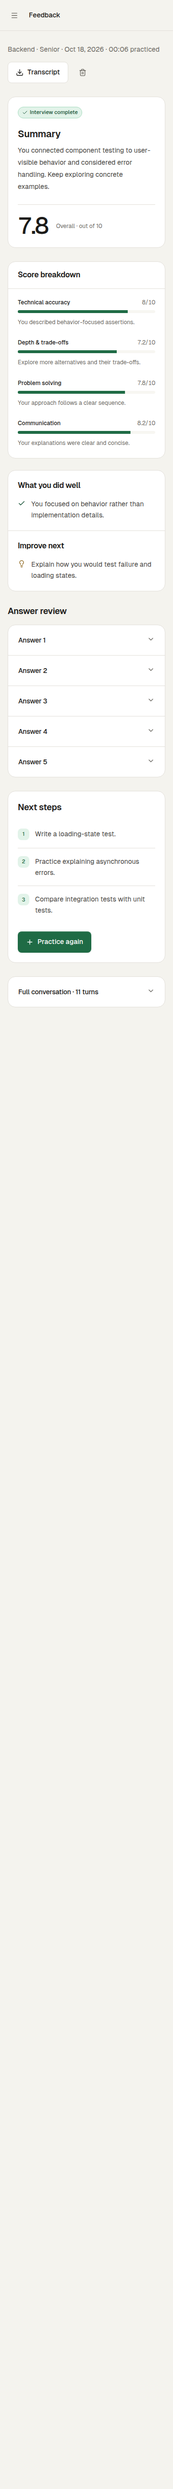
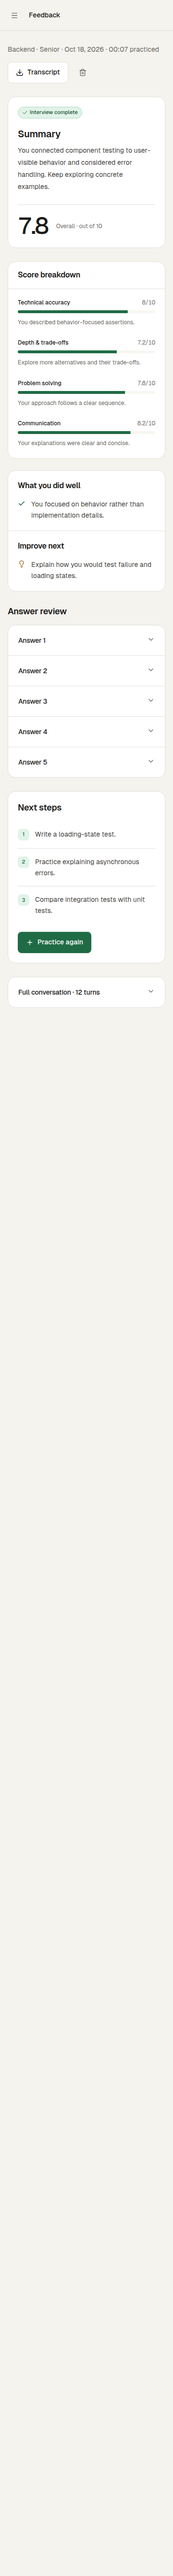
Remove redundant workspace and interview UI labels

Changed region(s): [[0.0611, 0.0, 0.825, 0.4062], [0.7944, 0.0938, 0.8861, 0.1562], [0.8556, 0.2812, 0.8861, 0.3125]]

diff --git a/e2e/interview.spec.ts b/e2e/interview.spec.ts
@@ -40,6 +40,16 @@ async function trackSpeakerPlayback(page: Page) {
       formaPcmStarts: number;
       formaPcmEnergy: number;
     };
+    const NativeSocket = window.WebSocket;
+    window.WebSocket = class extends NativeSocket {
+      constructor(url: string | URL, protocols?: string | string[]) {
+        super(url, protocols);
+        if (String(url).includes("/interviews/"))
+          (
+            window as Window & { formaInterviewSocket?: WebSocket }
+          ).formaInterviewSocket = this;
+      }
+    };
     target.formaPcmStarts = 0;
     target.formaPcmEnergy = 0;
     const create = AudioContext.prototype.createBufferSource;
@@ -54,6 +64,18 @@ async function trackSpeakerPlayback(page: Page) {
       };
       return source;
     };
+  });
+}
+// Replay remains a protocol recovery path; it is no longer a visible UI action.
+async function replayQuestion(page: Page) {
+  await page.evaluate(() => {
+    const target = window as Window & {
+      formaInterviewSocket?: WebSocket;
+      captionSocket?: WebSocket;
+    };
+    (target.formaInterviewSocket ?? target.captionSocket)!.send(
+      JSON.stringify({ type: "speak" }),
+    );
   });
 }
 async function playbackCount(page: Page) {
@@ -173,9 +195,7 @@ test("complete practice journey, recovery, history, and desktop reflow", async (
     page.locator('[data-slot="live-caption"] [data-slot="streaming-text"]'),
   ).toContainText("You mentioned testing behavior");
   const firstPlayback = await playbackCount(page);
-  await page
-    .getByRole("button", { name: "Hear question", exact: true })
-    .click();
+  await replayQuestion(page);
   await expect.poll(() => playbackCount(page)).toBeGreaterThan(firstPlayback);
   await expect(
     page.getByText("Listening to you", { exact: true }),
@@ -394,9 +414,7 @@ test("full question stays readable while speaking highlights follow playback sta
     await expect(
       page.getByText("Listening to you", { exact: true }),
     ).toBeVisible();
-    await page
-      .getByRole("button", { name: "Hear question", exact: true })
-      .click();
+    await replayQuestion(page);
     await expect(caption).toHaveText(fullQuestion);
     await expect(caption).toHaveAttribute("data-speaking", "true");
     await page.getByRole("button", { name: "Interrupt", exact: true }).click();
@@ -405,9 +423,7 @@ test("full question stays readable while speaking highlights follow playback sta
     const ended = await page.evaluate(
       () => (window as Window & { captionAudioEnds: number }).captionAudioEnds,
     );
-    await page
-      .getByRole("button", { name: "Hear question", exact: true })
-      .click();
+    await replayQuestion(page);
     await expect
       .poll(() =>
         page.evaluate(
@@ -493,20 +509,6 @@ test("voice capture, transcription, playback, mute, and cleanup", async ({
       (node) => node.getAnimations({ subtree: true }).length,
     ),
   ).toBeGreaterThan(0);
-  await page
-    .getByRole("button", { name: "Pause animation", exact: true })
-    .click();
-  expect(
-    await visual.evaluate(
-      (node) => node.getAnimations({ subtree: true }).length,
-    ),
-  ).toBe(0);
-  await expect(
-    page.getByText("Listening to you", { exact: true }),
-  ).toBeVisible();
-  await page
-    .getByRole("button", { name: "Resume animation", exact: true })
-    .click();
   await page.emulateMedia({ reducedMotion: "reduce" });
   await expect
     .poll(() =>

diff --git a/apps/web/components/voice-visual.tsx b/apps/web/components/voice-visual.tsx
@@ -1,9 +1,7 @@
 "use client";
-import { useState, type CSSProperties } from "react";
+import type { CSSProperties } from "react";
 import {
   AudioLines,
-  CirclePause,
-  CirclePlay,
   Loader2,
   Mic,
   MicOff,
@@ -11,7 +9,6 @@ import {
   Save,
 } from "lucide-react";
 import type { LiveStatus } from "@repo/shared";
-import { Button } from "@/components/ui/button";
 import { Progress } from "@/components/ui/progress";
 import styles from "./voice-visual.module.css";
 
@@ -28,7 +25,6 @@ export function VoiceVisual({
   level: number;
   error: boolean;
 }) {
-  const [paused, setPaused] = useState(false);
   const mode =
     status === "finishing"
       ? "finishing"
@@ -103,15 +99,11 @@ export function VoiceVisual({
       className="relative flex w-full max-w-md flex-col items-center text-center"
       data-slot="voice-experience"
     >
-      <div className="mb-3 flex items-center gap-2 text-xs font-medium text-muted-foreground">
-        <AudioLines className="size-3.5" aria-hidden="true" />
-        Screenly interviewer
-      </div>
       <div
         className={styles.visual}
         data-slot="voice-visual"
         data-state={mode}
-        data-animated={!paused && active}
+        data-animated={active}
         aria-hidden="true"
         style={{ "--voice-level": input } as CSSProperties}
       >
@@ -146,20 +138,6 @@ export function VoiceVisual({
             />
           </>
         )}
-        <Button
-          variant="ghost"
-          size="icon-sm"
-          className="absolute top-0 right-0 motion-reduce:hidden"
-          aria-label={paused ? "Resume animation" : "Pause animation"}
-          title={paused ? "Resume animation" : "Pause animation"}
-          onClick={() => setPaused(!paused)}
-        >
-          {paused ? (
-            <CirclePlay className="size-3.5" />
-          ) : (
-            <CirclePause className="size-3.5" />
-          )}
-        </Button>
       </div>
     </div>
   );

diff --git a/apps/web/app/interviews/[id]/page.tsx b/apps/web/app/interviews/[id]/page.tsx
@@ -8,7 +8,6 @@ import {
   Square,
   RefreshCw,
   VolumeX,
-  Volume2,
   FileText,
   Clock3,
   AudioLines,
@@ -99,9 +98,6 @@ export default function InterviewPage() {
   const started = ["listening", "thinking", "speaking", "finishing"].includes(
     state.status,
   );
-  const lastQuestion =
-    state.streaming ||
-    state.messages.filter((m) => m.role === "assistant").at(-1)?.content;
   const finishTrigger = (label: string, saved = false) => (
     <ConfirmAction
       title="Finish interview?"
@@ -362,22 +358,6 @@ export default function InterviewPage() {
                         </p>
                       )}
                     </div>
-                    <Button
-                      variant="ghost"
-                      size="sm"
-                      className="mt-1 text-xs"
-                      disabled={
-                        !lastQuestion ||
-                        !state.connected ||
-                        !capabilities.data?.voice ||
-                        state.status === "thinking" ||
-                        state.status === "finishing"
-                      }
-                      onClick={() => void controller.current?.speakLatest()}
-                    >
-                      <Volume2 className="size-3.5" />
-                      Hear question
-                    </Button>
                   </div>
                   <motion.div
                     initial={{ y: 10 }}
@@ -417,9 +397,6 @@ export default function InterviewPage() {
                     />
                     {finishTrigger("Finish interview")}
                   </motion.div>
-                  <p className="mt-3 mb-1 text-center text-[11px] text-muted-foreground">
-                    Your conversation is saved as you go.
-                  </p>
                 </div>
                 {transcriptOpen && (
                   <div

diff --git a/apps/web/components/workspace.tsx b/apps/web/components/workspace.tsx
@@ -11,8 +11,6 @@ import {
   LogOut,
   Loader2,
   Menu,
-  ChevronRight,
-  Layers2,
 } from "lucide-react";
 import { authClient } from "@/lib/auth-client";
 import { Button } from "@/components/ui/button";
@@ -61,16 +59,6 @@ function Sidebar({
         <Brand />
       </div>
       <div className="px-3 pt-6">
-        <div className="mb-6 flex items-center gap-2.5 px-3 text-[13px] font-medium text-ink-secondary">
-          <Layers2
-            className="size-4 text-muted-foreground"
-            aria-hidden="true"
-          />
-          Personal workspace
-        </div>
-        <p className="mb-2 px-3 text-[11px] font-medium text-muted-foreground">
-          WORKSPACE
-        </p>
         <nav className="space-y-1" aria-label="Main navigation">
           {navigation.map(({ href, label, icon: Icon }) => {
             const active = path === href;
@@ -232,17 +220,6 @@ export function Workspace({
                 onNavigate={() => setNavigationOpen(false)}
               />
             </Sheet>
-            <Layers2
-              className="hidden size-4 text-muted-foreground sm:block"
-              aria-hidden="true"
-            />
-            <span className="hidden text-muted-foreground sm:inline">
-              Workspace
-            </span>
-            <ChevronRight
-              className="hidden size-3.5 text-muted-foreground sm:block"
-              aria-hidden="true"
-            />
             <h1
               id="workspace-title"
               className="truncate text-sm leading-normal font-medium tracking-normal"

diff --git a/apps/web/app/interviews/new/page.tsx b/apps/web/app/interviews/new/page.tsx
@@ -281,9 +281,6 @@ export default function Setup() {
               Continue to setup check
               <ArrowRight aria-hidden="true" />
             </Button>
-            <p className="text-center text-[11px] text-muted-foreground">
-              Your interview clock hasn’t started yet.
-            </p>
           </div>
         </aside>
       </form>

diff --git a/DESIGN.md b/DESIGN.md
@@ -382,9 +382,9 @@ Both variable fonts are loaded locally through `next/font/local` from `apps/web/
 
 ## Layout
 
-At the medium breakpoint (768px), the workspace has a fixed, full-height sidebar (240px wide) and a matching main-content offset. The brand row and sticky workspace bar are both (64px high). Navigation rows are at least (44px high), and the account section stays anchored at the bottom of the sidebar. The content bar carries the single route-title h1, breadcrumb context, and contextual actions. Supporting descriptions and actions may appear in the content without another route heading. Do not add the removed voice-first tagline or decorative logo/navigation dots.
+At the medium breakpoint (768px), the workspace has a fixed, full-height sidebar (240px wide) and a matching main-content offset. The brand row and sticky workspace bar are both (64px high). Navigation rows are at least (44px high), and the account section stays anchored at the bottom of the sidebar. The content bar carries the single route-title h1 and contextual actions. Supporting descriptions and actions may appear in the content without another route heading. Do not add the removed voice-first tagline or decorative logo/navigation dots.
 
-Below (768px), the sidebar gives way to a labeled menu button and a left Radix sheet of `min(280px, 85vw)`. Selecting a route closes the drawer; Radix manages focus, Escape, and return to the trigger. The layout and long content reflow at (360px) and wider. At the small breakpoint (640px), breadcrumb details, compact button sizes, and some secondary labels become visible.
+Below (768px), the sidebar gives way to a labeled menu button and a left Radix sheet of `min(280px, 85vw)`. Selecting a route closes the drawer; Radix manages focus, Escape, and return to the trigger. The layout and long content reflow at (360px) and wider. At the small breakpoint (640px), compact button sizes and some secondary labels become visible.
 
 Regular workspace content is centered within (1160px), with horizontal padding progressing through (16px), (24px), (32px), and (40px) as space grows. Voice content uses a wider (1280px) ceiling and (16px / 32px) padding. Most panel padding is (20px / 24px), repeated item gaps are (8px–16px), and section separation is commonly (28px–32px). These are compositions built from the extracted spacing steps, rather than a universal equal-gap grid.
 
@@ -438,7 +438,7 @@ Text fields are white, (44px) high, with medium corners, a stronger input stroke
 
 ### Navigation
 
-The sidebar uses a structured brand row, compact workspace context, three aligned icon-and-label routes, and a bottom account area. The current route is a white bordered row with charcoal text, fern icon, and a subtle shadow. Other routes use muted ink and a neutral hover fill. Active state is also expressed with `aria-current`. The mobile version is the same navigation inside a left sheet. A visible-on-focus skip link and route-change focus on the content region support keyboard navigation.
+The sidebar uses a structured brand row, three aligned icon-and-label routes, and a bottom account area. The current route is a white bordered row with charcoal text, fern icon, and a subtle shadow. Other routes use muted ink and a neutral hover fill. Active state is also expressed with `aria-current`. The mobile version is the same navigation inside a left sheet. A visible-on-focus skip link and route-change focus on the content region support keyboard navigation.
 
 ### Sheets and confirmations
 
@@ -452,9 +452,9 @@ The full current question is readable below the orb as LLM text arrives and rema
 
 While audio plays, a gentle fern highlight moves through the visible words. This is a visual speaking indicator, not word alignment. It never delays, splits, flushes, resamples, or schedules the provider's speech. Reduced motion uses a steady highlight. Replay displays the full saved question immediately; interruption stops the highlight and retains readable text. Caption updates use `aria-live="off"`. Deepgram audio is forwarded as each frame arrives, with one synthesis flush for the complete response.
 
-The white dock groups **Mute / Unmute**, **Interrupt**, and **Finish interview**, with a divider before finish. Mute reflects its pressed state; interrupt is available while speaking or thinking. Finish opens a confirmation before ending the interview and generating feedback. The narrow layout shortens the finish label while retaining its accessible name. The saved-as-you-go message remains directly below the dock.
+The white dock groups **Mute / Unmute**, **Interrupt**, and **Finish interview**, with a divider before finish. Mute reflects its pressed state; interrupt is available while speaking or thinking. Finish opens a confirmation before ending the interview and generating feedback. The narrow layout shortens the finish label while retaining its accessible name.
 
-The orb uses a (5s) breathing cycle, (16s) surface drift, and (7s) ribbon motion; speaking and thinking shorten surface drift to (7s) and (5s). Input scale responds over (160ms ease-out). A pause control stops the decorative animation. The dock enters from (10px) below over (300ms), with `cubic-bezier(0.16, 1, 0.3, 1)`. MotionConfig respects the user's reduced-motion preference; CSS suppresses ongoing visual animation and input scaling, reduces transitions globally, and removes the redundant pause control under reduced motion.
+The orb uses a (5s) breathing cycle, (16s) surface drift, and (7s) ribbon motion; speaking and thinking shorten surface drift to (7s) and (5s). Input scale responds over (160ms ease-out). The dock enters from (10px) below over (300ms), with `cubic-bezier(0.16, 1, 0.3, 1)`. MotionConfig respects the user's reduced-motion preference; CSS suppresses ongoing visual animation and input scaling, reduces transitions globally.
 
 ### Transcript
 

diff --git a/docs/implementation.md b/docs/implementation.md
@@ -66,7 +66,7 @@ English recognition uses `flux-general-en`; synthesis uses `flux-kit-en`. These 
 
 ## Audio recovery
 
-Microphone transcription and speech output are independent. Microphone failures require retrying transcription; they do not disable TTS. A transcription connection must succeed before the interview clock starts; microphone access is required again when resuming. **Hear question** replays the last question without generating another LLM response or adding duplicate transcript messages. Speech errors have their own retry action.
+Microphone transcription and speech output are independent. Microphone failures require retrying transcription; they do not disable TTS. A transcription connection must succeed before the interview clock starts; microphone access is required again when resuming. The speech recovery action replays the last question without generating another LLM response or adding duplicate transcript messages. Speech errors have their own retry action.
 
 Flux `Flushed` acknowledges text flushing; it does not mean all audio has arrived. The speech transport waits for `SpeechMetadata` before ending synthesis. Audio contexts use idempotent, shared cleanup so repeated microphone checks, starting, and navigation cannot close an already closed context. Browser tests track actual PCM playback and exercise repeated microphone checks.
 
